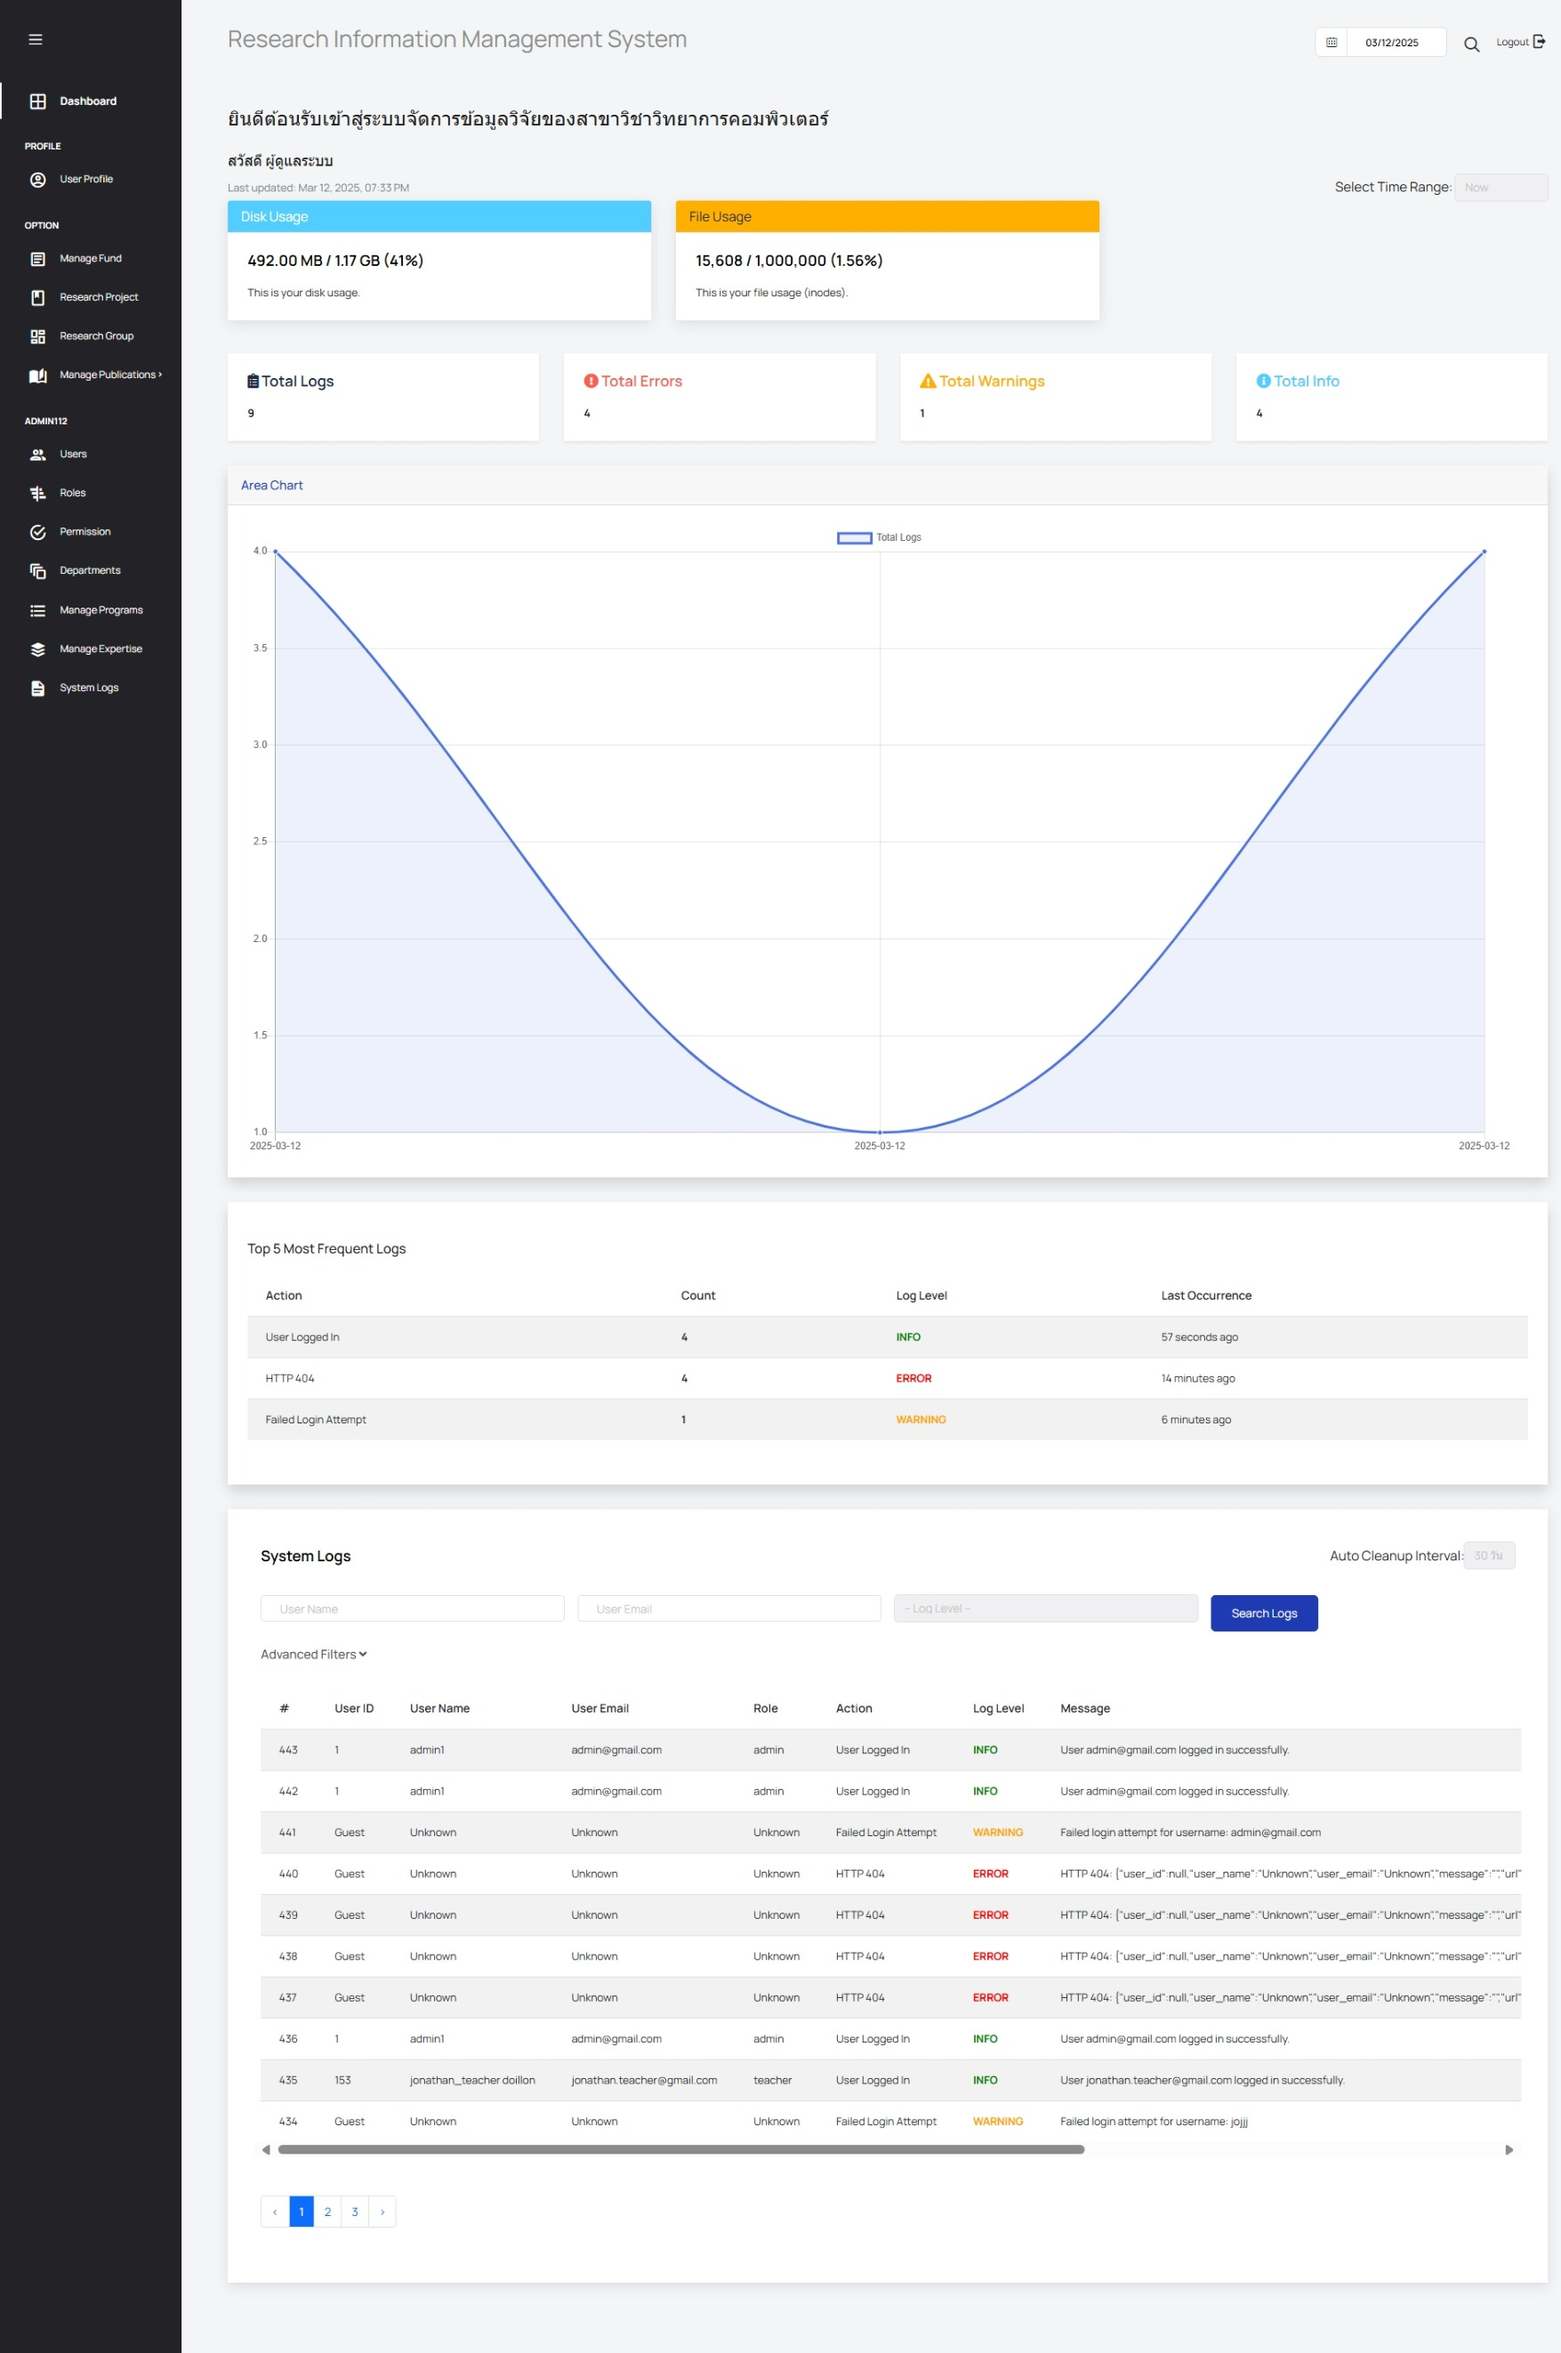
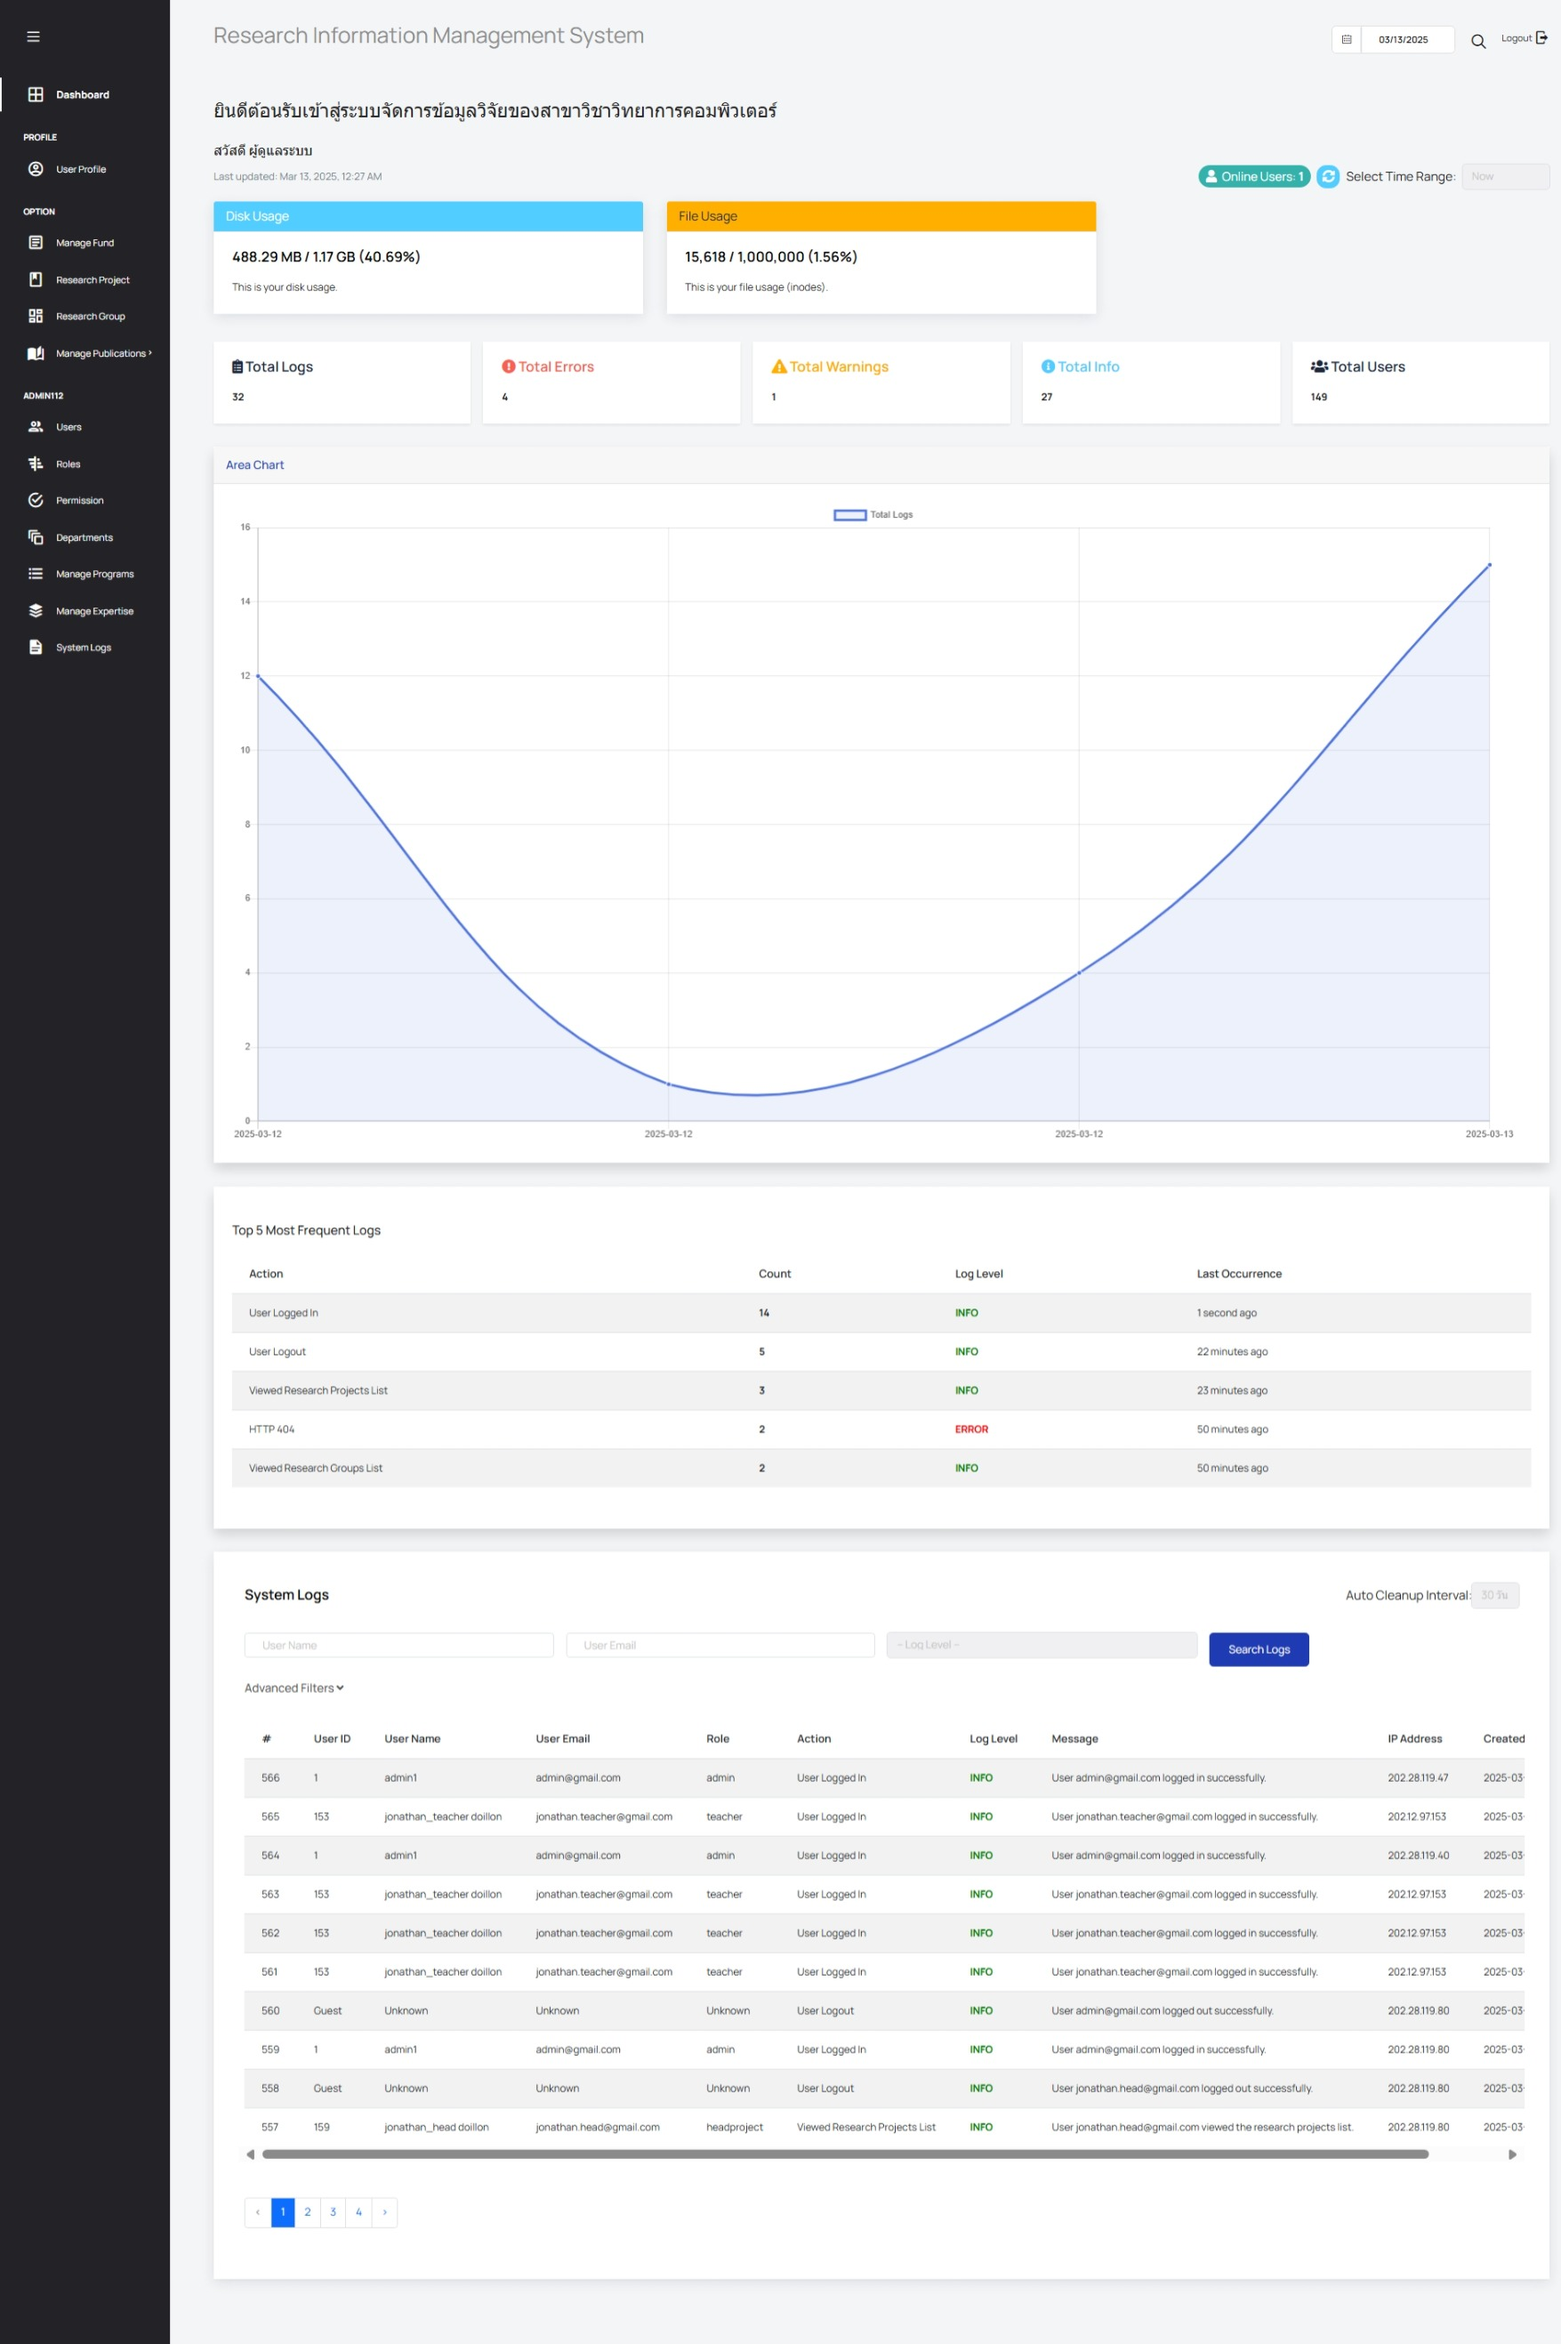
docs: update User manual.md

diff --git a/sprint3/Doc/User manual.md b/sprint3/Doc/User manual.md
@@ -9,13 +9,13 @@
 ## คู่มือการใช้งาน ภาษาไทย
 ## สารบัญ
 1. [ข้อมูลเบื้องตัน](#ข้อมูลเบื้องตัน)
-2. [ข้อมูล Sprint#2](#ข้อมูล-sprint1)
-3. [วิธีการใช้งานสำหรับผู้ดูแลระบบ](#วิธีการใช้งานสำหรับ-admin)
+2. [ข้อมูล Sprint#3](#ข้อมูล-sprint3)
+3. [วิธีการใช้งานสำหรับผู้ดูแลระบบ](#วิธีการใช้งานสำหรับผู้ดูแลระบบ)
 
 ## ข้อมูลเบื้องตัน
-คู่มือการใช้งานสำหรับ Sprint#2 สำหรับผู้ดูแลระบบ
+คู่มือการใช้งานสำหรับ Sprint#3 สำหรับผู้ดูแลระบบ
 
-## ข้อมูล Sprint#1
+## ข้อมูล Sprint#3
 - ในฐานะผู้ดูแลระบบ ฉันต้องการแดชบอร์ดสำหรับบันทึกกิจกรรมของผู้ใช้ บันทึกข้อผิดพลาด และบันทึกข้อมูลระบบที่สำคัญ
 
 ## วิธีการใช้งานสำหรับผู้ดูแลระบบ
@@ -34,17 +34,20 @@
 ### 3. โครงสร้าง Dashboard แบ่งออกเป็น 4 ส่วนหลัก
 
 #### 3.1 พื้นที่เก็บข้อมูลและการเลือกช่วงเวลา
+- **Select Time Range**: สามารถเลือกช่วงเวลาที่ต้องการได้ 
+- **Online Users**: แสดงจำนวนผู้ใช้ที่กำลังอยู่ในระบบ
 - **Disk Usage**: พื้นที่เก็บข้อมูลที่ใช้งานเทียบกับพื้นที่ทั้งหมดของเซิร์ฟเวอร์  
 - **File Usage (Inodes)**: จำนวนไฟล์และโฟลเดอร์ที่ใช้งานเทียบกับขีดจำกัดของเซิร์ฟเวอร์  
-- **Select Time Range**: สามารถเลือกช่วงเวลาที่ต้องการได้ ซึ่งจะมีผลกับข้อมูลในแดชบอร์ดส่วนอื่น ๆ  
+ซึ่งจะมีผลกับข้อมูลในแดชบอร์ดส่วนอื่น ๆ  
 
 ![Dashboard](../Img/Dashboard_2.jpeg)
 
 #### 3.2 สรุปบันทึกระบบ (Logs Summary)
 - **Total Logs**: จำนวนบันทึกทั้งหมดของระบบ  
-- **Total Errors**: แสดงจำนวนข้อผิดพลาดในระบบ
-- **Total Warnings**: คำเตือนที่อาจส่งผลกระทบ แต่ยังไม่ใช่ข้อผิดพลาด เช่น การกรอกรหัสผ่านผิด 
-- **Total Info**: ข้อมูลทั่วไปเกี่ยวกับการทำงานของระบบ เช่น การเข้าสู่ระบบ
+- **Total Errors**: จำนวนข้อผิดพลาดในระบบ
+- **Total Warnings**: จำนวนคำเตือนที่อาจส่งผลกระทบ แต่ยังไม่ใช่ข้อผิดพลาด เช่น การกรอกรหัสผ่านผิด 
+- **Total Info**: จำนวนข้อมูลทั่วไปเกี่ยวกับการทำงานของระบบ เช่น การเข้าสู่ระบบ
+- **Total Users**: จำนวนผู้ใช้ทั้งหมดที่อยู่ในระบบ
 - **กราฟแสดงข้อมูล** สามารถคลิกที่แต่ละการ์ดเพื่อดูกราฟของประเภทบันทึกที่ต้องการ  
 
 ![Dashboard](../Img/Dashboard_3.jpeg)
@@ -68,13 +71,13 @@
 
 ## Table of Contents
 1. [Basic Information](#basic-information)
-2. [Sprint#2 Details](#sprint1-details)
+2. [Sprint#3 Details](#sprint3-details)
 3. [How to Use for Admin](#how-to-use-for-admin)
 
 ## Basic Information
-This is a user manual for Sprint#2 for admin.
+This is a user manual for Sprint#3 for admin.
 
-## Sprint#2 Details
+## Sprint#3 Details
 -  As an admin, I want a dashboard of the user's activity log, error log, and important system information log.
 
 ## How to Use for Admin
@@ -93,17 +96,20 @@ This is a user manual for Sprint#2 for admin.
 ### 3. Dashboard Structure Divided into 4 Main Sections
 
 #### 3.1 Storage and Time Range Selection
+- **Select Time Range**: Allows users to choose a time range, affecting the data displayed in other dashboard sections.  
+- **Online Users**: Displays the number of users currently logged in.
 - **Disk Usage**: Displays the storage used compared to the total available space on the server.  
 - **File Usage (Inodes)**: Shows the number of files and folders used compared to the server limit.  
-- **Select Time Range**: Allows users to choose a time range, affecting the data displayed in other dashboard sections.  
+
 
 ![Dashboard](../Img/Dashboard_2.jpeg)
 
 #### 3.2 Log Summary
 - **Total Logs**: The total number of system logs recorded.  
-- **Total Errors**: Shows the total system errors.
-- **Total Warnings**: Displays warnings that may impact the system but are not critical errors, such as incorrect password attempts.  
-- **Total Info**: General system activity logs, such as login attempts. 
+- **Total Errors**: The total number of system errors.
+- **Total Warnings**: The total number of warnings that may impact the system but are not critical errors, such as incorrect password attempts.  
+- **Total Info**: The total number of general system activity logs, such as login attempts. 
+- **Total Users**: The total number of users in the system.
 - **Graphical Representation**: Users can click on each card to view specific log level graphs.  
 
 ![Dashboard](../Img/Dashboard_3.jpeg)
